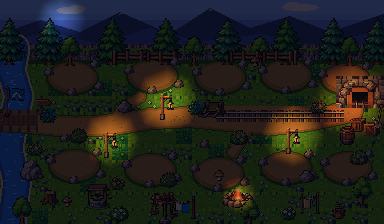
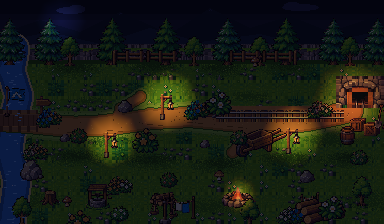
v1.3 PATCH_V13 §3 1~6: 부지 장면 낮/해질녘/밤 · 터 9곳 마이그레이션 · 공사터 · 그림자 · 심볼 간판 · 앞 수풀

diff --git a/src/main.js b/src/main.js
@@ -26,7 +26,7 @@ const ORE_COLOR = { C: 0xb87a4a, s: 0x7c7a92, g: 0xb8862a, j: 0x8a4ab0, c: 0x2fa
 import { newSeed } from './rng.js';
 
 TextureSource.defaultOptions.scaleMode = 'nearest';
-const VERSION = 'v1.2.7';
+const VERSION = 'v1.3';
 
 // ---------------------------------------------------------------- 저장 (명세2 §12: 로컬 자동 저장 5초마다 + 닫을 때)
 const S = loadSave();
@@ -109,7 +109,7 @@ const DECO_ANIM = new Set(['deco_fire', 'deco_flag']);
 const GPT_STEPS = [1, 3, 5];
 const GPT_SPRITES = [...Object.values(BLD_ART).flatMap((b) => GPT_STEPS.map((l) => `g_${b}_${l}`)), ...Object.values(DECO_ART).map((d) => `g_${d}`)];
 const YARD_SPRITES = [...Object.values(BLD_ART).flatMap((b) => GPT_STEPS.map((l) => `g64_${b}_${l}`)), ...Object.values(DECO_ART).map((d) => `g64_${d}`)];   // 부지 장면 1× (64×64 · scripts/buildings64.sh)
-const SPRITES = [...GPT_SPRITES, ...YARD_SPRITES, 'yd_bush_white', 'yd_bush_pink', 'yd_bush_orange', ...Object.values(BLD_ART).flatMap((b) => [1, 3, 5].map((l) => `${b}_${l}`)), ...Object.values(DECO_ART).filter((d) => !DECO_ANIM.has(d)), 'dirt_1', 'dirt_2', 'dirt_3', 'rock', 'hard_rock', 'ore_copper', 'ore_gold', 'ore_silver', 'gem',
+const SPRITES = [...GPT_SPRITES, ...YARD_SPRITES, 'lot_site_a', 'lot_site_b', 'lot_site_locked', 'lot_site_locked_b', 'yard_front', 'forest_fill', ...['pick', 'anvil', 'gear', 'bed', 'crate', 'gem', 'mug', 'cart', 'bag', 'flask'].map((k) => `sign_${k}`), ...Object.values(BLD_ART).flatMap((b) => [1, 3, 5].map((l) => `${b}_${l}`)), ...Object.values(DECO_ART).filter((d) => !DECO_ANIM.has(d)), 'dirt_1', 'dirt_2', 'dirt_3', 'rock', 'hard_rock', 'ore_copper', 'ore_gold', 'ore_silver', 'gem',
   'ancient', 'pocket_water', 'pocket_gas', 'relic_chest', 'cave', 'ladder', 'mark_x', 'ore_bits', 'star',
   'tunnel', 'tunnel_beam', 'rail', 'side_far', 'side_mid', 'side_fg',
   'sky_far', 'deep_far', 'deep_mid', 'deep_fg', 'bubble_dig', 'bubble_walk', 'bubble_rest',
@@ -121,7 +121,7 @@ const ANIMS = ['ore_glow', 'gold_shimmer', 'lantern', 'red_idle', 'red_walk', 'r
   'blonde_idle', 'blonde_walk', 'mole_sniff', 'cart_roll', 'cart_roll_empty', 'cart_roll_glow', 'slime', 'deco_fire', 'deco_flag', 'ui_hand', 'office_fire', 'yard_ripple', 'yard_fire', ...FX];
 const urls = [
   ...SPRITES.map((n) => A(`sprites/${n}.png`)), ...NORMALS.map((n) => A(`sprites/${n}_n.png`)),
-  ...ANIMS.flatMap((n) => [A(`anims/${n}.png`), A(`anims/${n}.json`)]), A('scenes/surface.png'), A('scenes/office_night.png'), A('scenes/office_day.png'), A('scenes/yard_day.png'), A('scenes/yard_night.png'),
+  ...ANIMS.flatMap((n) => [A(`anims/${n}.png`), A(`anims/${n}.json`)]), A('scenes/surface.png'), A('scenes/office_night.png'), A('scenes/office_day.png'), A('scenes/yard_day.png'), A('scenes/yard_dusk.png'), A('scenes/yard_night.png'),
 ];
 const [loaded] = await Promise.all([Assets.load(urls), loadUI(BASE)]);
 const tex = (n) => loaded[A(`sprites/${n}.png`)];
@@ -1465,6 +1465,11 @@ function onSpot(i) {
 }
 function afterBuild(msg) { refreshCompany(); sfx(/Lv/.test(msg) ? 'upgrade' : 'build'); toast(msg); bumpCounter('coin'); save(); buildUI(); cloudSoon(); }
 const isNight = () => { const hr = (S.tick / TICK_PER_DAY) * 24; return hr < 6 || hr >= 19; };
+/** 부지 장면 시간대 (PATCH_V13 §3-1): 06–16 낮 · 16–20 해질녘 · 20–06 밤 */
+const yardPhase = () => { const hr = (S.tick / TICK_PER_DAY) * 24; return hr >= 6 && hr < 16 ? 'day' : hr >= 16 && hr < 20 ? 'dusk' : 'night'; };
+const YARD_SHADE = { day: 0xffffff, dusk: 0xffe0c8, night: 0xd8d8f0 };   // 목표 합성(docs/ref/yard_v3_*)처럼 건물 색은 거의 그대로
+/** 간판 판자 (§3-5): 건물 → 심볼 */
+const SIGN_OF = { office: 'bag', lodge: 'bed', smelter: 'anvil', warehouse: 'crate', lanternShop: 'pick', cartShed: 'cart', moleHouse: 'gem', pumpRoom: 'flask', turretShop: 'gear' };
 
 /** 회사 화면 (V12 §4): 부지 장면(세로 3× · 가로·PC 2~3×, 끌어서 봄) + 아래 아이콘 격자. 건물·빈 터를 톡하면 카드 1장 */
 function makeCompany(x, y, w, h) {
@@ -1548,7 +1553,7 @@ function polyAt(p, d) {
 /** 부지 장면 (PATCH_V10 §2~4): art/yard/yard.px.js 낮·밤 그림 1장 위에 건물(빈 터) · 장식(소품 자리) · 길 따라 걷는 광부 · 레일 광차 · 두더지
  *  배율은 정수만 (화면 폭·높이에 들어가는 가장 큰 정수, 최소 1 — 남는 곳은 어두운 테두리, 넘치면 가운데 기준으로 잘림) */
 function makeSite(sw, sh) {
-  const c = new Container(), night = isNight(), SW = YARD.scene.w, SH = YARD.scene.h;
+  const c = new Container(), phase = yardPhase(), night = phase === 'night', dusk = phase === 'dusk', SW = YARD.scene.w, SH = YARD.scene.h;
   const k = yardScale();                                    // 기기 px 배율 (정수)
   const view = new Container(); c.addChild(view);
   const mask = new Graphics().rect(0, 0, sw, sh).fill(0xffffff); c.addChild(mask); view.mask = mask;
@@ -1572,19 +1577,12 @@ function makeSite(sw, sh) {
     const end = () => { d0 = null; setTimeout(() => { siteDragged = false; }, 0); };
     c.on('pointerup', end); c.on('pointerupoutside', end);
   }
-  const bg = new Sprite(yardTex(night ? 'yard_night' : 'yard_day')); sc.addChild(bg);
+  const bg = new Sprite(yardTex(`yard_${phase}`)); sc.addChild(bg);
   bg.eventMode = 'static'; bg.on('pointertap', () => { if (siteDragged) return; if (upCard && !placing) { upCard = null; buildUI(); } });
-  const ripple = new Sprite(F.yard_ripple[0]); ripple.tint = night ? 0x9090c8 : 0xffffff; sc.addChild(ripple);                 // yard.px.js _ripple 자리 (0,0)
+  const ripple = new Sprite(F.yard_ripple[0]); ripple.tint = night ? 0x9090c8 : dusk ? 0xe0b8a0 : 0xffffff; sc.addChild(ripple);                 // yard.px.js _ripple 자리 (0,0)
   const fireBg = new Sprite(F.yard_fire[0]); fireBg.position.set(230, 184); sc.addChild(fireBg);                                 // _fire 자리 (그림 속 모닥불)
   const open = new Set(openLots(S).map((l) => l.id)), pl = placed(S);
-  const shade = night ? 0xb8b8e0 : 0xffffff;
-  // 잠긴 터: 덤불로 덮음 (사무소 Lv마다 하나씩 걷힘)
-  for (const l of YARD.lots) if (!open.has(l.id)) {
-    ['yd_bush_white', 'yd_bush_orange', 'yd_bush_pink', 'yd_bush_white'].forEach((n, i) => {
-      const b = new Sprite(tex(n)); if (!b.texture) return; b.anchor.set(0.5, 1); b.tint = shade;
-      b.position.set(Math.round(l.x + 6 + (i * (l.w - 12)) / 3), Math.round(l.y + l.h - (i % 2 ? 4 : 0))); sc.addChild(b);
-    });
-  }
+  const shade = YARD_SHADE[phase];
   // 어울림 잇는 선
   const anchorOf = (p) => { if (p.deco) { const [dx, dy] = YARD.decoSpots[p.spot]; return [dx + 8, dy + 10]; } const l = lotOf(p.lot); return [l.x + l.w / 2, l.y + l.h - 4]; };
   const links = new Graphics();
@@ -1607,18 +1605,26 @@ function makeSite(sw, sh) {
     if (p.deco) { const [dx, dy] = YARD.decoSpots[p.spot]; things.push({ p, y: dy + 16, x: dx + 8 }); }
     else { const l = lotOf(p.lot); things.push({ p, y: l.y + l.h, x: l.x + l.w / 2, l }); }
   }
+  for (const l of YARD.lots) if (!lotUser(S, l.id)) things.push({ site: true, l, y: l.y + l.h });   // §3-3 빈 터 = 공사 예정지 (잠긴 터는 잡초 터)
   things.sort((a, b) => a.y - b.y);
   const glows = new Container(), animated = [], smoke = [];
   const glow = (x, y, r, color, a) => { const g = new Sprite(glowTex()); g.anchor.set(0.5); g.width = g.height = r * 2; g.position.set(x, y); g.tint = color; g.alpha = a; g.blendMode = 'add'; glows.addChild(g); };
   for (const th of things) {
+    if (th.site) {                                               // 공사터 a/b · 잠긴 터 — (lot.x-4, lot.y-20), 짓는 순간 사라짐
+      const l = th.l, n = open.has(l.id) ? (l.id % 2 ? 'lot_site_b' : 'lot_site_a') : (l.id % 2 ? 'lot_site_locked_b' : 'lot_site_locked');
+      const sp = new Sprite(tex(n)); sp.position.set(l.x + YARD.site.dx, l.y + YARD.site.dy); sp.tint = shade; sc.addChild(sp);
+      continue;
+    }
     const { p } = th, sel = (upCard?.kind === 'bld' || upCard?.kind === 'deco') && upCard.key === p.kind;
     if (!p.deco) {
-      const l = th.l;
+      const l = th.l, cx = Math.round(l.x + l.w / 2);
       const by = l.y + Math.round(l.h / 2) + 4;                    // 바닥 = 터 가운데 (형철 ③: 64×64 원본 1×, 축소 없음)
-      sc.addChild(new Graphics().ellipse(l.x + l.w / 2, by - 2, 28, 5).fill({ color: 0x1a1220, alpha: 0.35 }));   // 그림자
-      const art = yardArt(p.kind, lvOf(S, p.kind)); art.position.set(Math.round(l.x + l.w / 2), by); art.tint = shade; sc.addChild(art);
+      sc.addChild(new Graphics().ellipse(cx, by - 3, 34, 6).fill({ color: 0x1a1220, alpha: 0.35 }));   // §3-4 그림자 68×12
+      const art = yardArt(p.kind, lvOf(S, p.kind)); art.position.set(cx, by); art.tint = shade; sc.addChild(art);
+      const sg = SIGN_OF[p.kind] && tex(`sign_${SIGN_OF[p.kind]}`);   // §3-5 간판 판자: 건물 그림의 글자 간판을 덮음
+      if (sg) { const s1 = new Sprite(sg); s1.position.set(cx + YARD.signAt.dx, by + YARD.signAt.dy); s1.tint = shade; sc.addChild(s1); }
       if (art.anim) animated.push(art);
-      if (night) for (const [fx, fy] of [[0.35, 0.62], [0.65, 0.62]]) glow(l.x + l.w / 2 + (fx - 0.5) * art.width, by - art.height * (1 - fy), 9, 0xffd58a, 0.6);   // 창문 빛
+      if (night || dusk) for (const [fx, fy] of [[0.35, 0.62], [0.65, 0.62]]) glow(l.x + l.w / 2 + (fx - 0.5) * art.width, by - art.height * (1 - fy), 9, 0xffd58a, 0.6);   // 창문 빛
       if (p.kind === 'smelter') smoke.push([l.x + l.w / 2 + 6, by - art.height + 2]);
       if (sel) sc.addChild(new Graphics().roundRect(l.x + l.w / 2 - art.width / 2 - 2, by - art.height - 2, art.width + 4, art.height + 4, 4).stroke({ width: 1, color: 0xf5cf6a }));
     } else {
@@ -1629,9 +1635,8 @@ function makeSite(sw, sh) {
       if (sel) sc.addChild(new Graphics().circle(dx + 8, dy + 8, 11).stroke({ width: 1, color: 0xf5cf6a }));
     }
   }
-  if (night) glow(YARD.campfire[0], YARD.campfire[1] - 6, 26, 0xffb27a, 0.5);
-  const lampGlows = night ? YARD.lamps.map(([lx, ly], i) => { glow(lx, ly, 10, 0xffd58a, 0.5); const g = glows.children[glows.children.length - 1]; g.seed = i * 1.7; return g; }) : [];
-  sc.addChild(glows);
+  if (night || dusk) glow(YARD.campfire[0], YARD.campfire[1] - 6, 26, 0xffb27a, night ? 0.5 : 0.3);
+  const lampGlows = night || dusk ? YARD.lamps.map(([lx, ly], i) => { glow(lx, ly, 10, 0xffd58a, 0.5); const g = glows.children[glows.children.length - 1]; g.seed = i * 1.7; return g; }) : [];
   // 탭 자리 (그림 위 투명 판)
   for (const l of YARD.lots) { const hit = new Container(); hit.eventMode = 'static'; hit.cursor = 'pointer'; hit.hitArea = new Rectangle(l.x - 8, l.y - 40, l.w + 16, l.h + 42); hit.on('pointertap', () => onLot(l.id)); sc.addChild(hit); }
   YARD.decoSpots.forEach(([dx, dy], i) => { const hit = new Container(); hit.eventMode = 'static'; hit.cursor = 'pointer'; hit.hitArea = new Rectangle(dx - 2, dy - 4, 20, 22); hit.on('pointertap', () => onSpot(i)); sc.addChild(hit); });
@@ -1649,10 +1654,12 @@ function makeSite(sw, sh) {
   const cartS = new Sprite(F.cart_roll_empty[0]); cartS.anchor.set(0.5, 1); cartS.scale.set(0.5); cartS.tint = shade; chars.addChild(cartS);
   const rail = YARD.rails; let cx = rail.x0 + 20, cdir = 1, cwait = 0;
   const puffs = new Graphics(); sc.addChild(puffs);
+  { const fr = new Sprite(tex('yard_front')); fr.tint = shade; sc.addChild(fr); }   // §3-6 앞 수풀 — 건물·캐릭터 위
+  sc.addChild(glows);
   let tt = 0;
   ui.coTick = (dt) => {
     tt += dt; drawMarks(tt);
-    if (isNight() !== night) { ui.coTick = null; setTimeout(buildUI, 0); return; }      // 낮 ↔ 밤 바뀌면 장면 다시
+    if (yardPhase() !== phase) { ui.coTick = null; setTimeout(buildUI, 0); return; }      // 낮 → 해질녘 → 밤 바뀌면 장면 다시
     if (!ripple.destroyed) { ripple.texture = F.yard_ripple[Math.floor(tt * 3) % F.yard_ripple.length]; fireBg.texture = F.yard_fire[Math.floor(tt * 8) % F.yard_fire.length]; }
     for (const g of lampGlows) { const f = 0.55 * Math.sin(tt * 6.3 + g.seed) + 0.3 * Math.sin(tt * 18.8 + g.seed * 2); g.alpha = 0.45 + 0.12 * f; g.width = g.height = 20 * (1 + 0.06 * f); }
     for (const wk of walkers) {
@@ -4083,7 +4090,7 @@ if (bootIdle?.midRound) toast(`라운드 이어 하기 — ${S.round.card.name}`
 
 window.__kod = {
   get S() { return S; }, openReport, openNews, openMailbox, openInbox, openSound, checkReplies, get adminOn() { return adminOn; }, set adminOn(v) { adminOn = v; }, app, step(n = 60) { for (let i = 0; i < n; i++) app.ticker.update(app.ticker.lastTime + 1000 / 60); }, get W() { return W; }, get L() { return L; }, get ui() { return ui; }, AU, cam, lantern, actors, crew, fx, bigVein, tilesA, wA, lights,
-  startRound, todayCards, settleOffline, get welcome() { return welcome; }, introNext, showIntro, get introView() { return introView; }, dialogNext, openManual(key = MANUAL[0].key) { manualView = { key }; buildUI(); }, get tut() { return S.tutorial; }, startTutorialRound, openCompany, closeCompany, closeWelcome, movePlacing(kind) { placing = { kind, move: true, deco: !!B.company.decos[kind] }; buildUI(); }, refreshCompany, coAction, onLot, onSpot, get yardPan() { return yardPan; }, get held() { return held.length; }, notify, openRank, openLoginForm, pushNow, learnTalent, openTalents, get market() { return market; }, smeltOne, get sellMode() { return sellMode; }, set sellMode(v) { sellMode = v; }, get CF() { return CF; }, away(sec) { S.idle.lastSeen = Date.now() - sec * 1000; return settleOffline(); }, startDig, get errLog() { return errLog; }, openStorage, upgradeEquip, openGear, get upCard() { return upCard; }, set upCard(v) { upCard = v; }, vibroAt, xrayAt, armTool, get toolArmed() { return toolArmed; }, openShaft, turnShaft, collapse, get shafts() { return S.round?.shafts; }, get shaftBtns() { return shaftBtns; }, get piles() { return piles; }, B, refreshAround, get cart() { return cart; }, carts, endRound, askRetreat, nextAuction, pickCard, playerRaise, reset() { saving = false; resetSave(); location.reload(); },
+  startRound, todayCards, settleOffline, get welcome() { return welcome; }, introNext, showIntro, get introView() { return introView; }, dialogNext, openManual(key = MANUAL[0].key) { manualView = { key }; buildUI(); }, get tut() { return S.tutorial; }, startTutorialRound, openCompany, closeCompany, closeWelcome, movePlacing(kind) { placing = { kind, move: true, deco: !!B.company.decos[kind] }; buildUI(); }, refreshCompany, coAction, onLot, onSpot, get yardPan() { return yardPan; }, get held() { return held.length; }, notify, openRank, openLoginForm, pushNow, learnTalent, openTalents, get market() { return market; }, smeltOne, get sellMode() { return sellMode; }, set sellMode(v) { sellMode = v; }, get CF() { return CF; }, away(sec) { S.idle.lastSeen = Date.now() - sec * 1000; return settleOffline(); }, startDig, set yardHour(h) { S.tick = (h / 24) * TICK_PER_DAY; }, get errLog() { return errLog; }, openStorage, upgradeEquip, openGear, get upCard() { return upCard; }, set upCard(v) { upCard = v; }, vibroAt, xrayAt, armTool, get toolArmed() { return toolArmed; }, openShaft, turnShaft, collapse, get shafts() { return S.round?.shafts; }, get shaftBtns() { return shaftBtns; }, get piles() { return piles; }, B, refreshAround, get cart() { return cart; }, carts, endRound, askRetreat, nextAuction, pickCard, playerRaise, reset() { saving = false; resetSave(); location.reload(); },
   async shot(name, frames = 240) {
     let t = performance.now();
     const url = await new Promise((r) => { for (let i = 0; i < frames; i++) app.ticker.update((t += 33)); shotWaiter = r; app.ticker.update((t += 33)); });

diff --git a/src/patchnotes.js b/src/patchnotes.js
@@ -1,5 +1,6 @@
 // 채굴 자체 패치노트 (새 소식 → 패치노트). 새 버전은 맨 위에.
 export const PATCH_NOTES = [
+  { v: 'v1.3', d: '2026-10-24', items: ['회사 부지가 새 그림으로: 낮 · 해질녘 · 밤 세 장면', '빈 터는 공사 예정지, 건물엔 그림자와 심볼 간판', '앞 수풀이 건물 위로 겹쳐서 마을이 꽉 차 보여요'] },
   { v: 'v1.2.7', d: '2026-10-24', items: ['드물게 화면이 멈추던 것: 문제가 생겨도 게임이 멈추지 않고 계속돼요', '그때 생긴 오류는 [제보]를 보낼 때 함께 가요 (고치는 데 써요)'] },
   { v: 'v1.2.6', d: '2026-10-24', items: ['📦 위 HUD의 창고 숫자를 누르면 창고 현황: 광석·괴 몇 개, 개당 시세, 지금 다 팔면 얼마', '판매 탭 보유 수가 「28개」로 보여요'] },
   { v: 'v1.2.5', d: '2026-10-24', items: ['[시추 시작] 버튼 글자가 잘리던 것 고침 (버튼이 글자 폭에 맞춰요)', '경매 카드 이름 · 광부 성격 줄도 안 잘리게'] },

diff --git a/src/company.js b/src/company.js
@@ -15,6 +15,8 @@ export function ensureCompany(S) {
   const co = S.company;
   co.coreLv ??= 1; co.buildings ??= {}; co.decos ??= []; co.harmoniesFound ??= [];
   ensureUpgrades(S);
+  // PATCH_V13 §3-2: 터 10곳 → 9곳 (입구와 겹치던 옛 4번 삭제, id 다시 매김) — 옛 5–9 → 4–8, 옛 4에 지은 건물은 빈 터로
+  if ((co.lotsV ?? 0) < 3) { for (const b of Object.values(co.buildings)) if (b && b.lot != null) b.lot = b.lot === 4 ? null : b.lot > 4 ? b.lot - 1 : b.lot; co.lotsV = 3; }
   // 격자 슬롯(x,y) → 빈 터(lot) · 소품 자리(spot)로 옮김 (PATCH_V10 §2)
   for (const b of Object.values(co.buildings)) if (b && b.lot == null) { delete b.x; delete b.y; }
   co.buildings.office ??= {}; co.buildings.office.lot ??= YARD.lots.find((l) => l.default === 'office')?.id ?? 0;

diff --git a/README.md b/README.md
@@ -36,6 +36,9 @@
 
 변환 손실 점검(원본 ↔ png2pxl ×4): `docs/preview/convert_check_*.png` (`py scripts/convert_check.py`). 길드 대표는 32×40에서 뭉개져 64×80으로 다시 변환.
 
+## v1.3 (PATCH_V13 — 부지 퀄리티)
+1~6. 장면 3종(06–16 낮 · 16–20 해질녘 · 20–06 밤, `yardPhase`) · 터 9곳(옛 4번 삭제, 저장된 lot 5–9 → 4–8, 옛 4의 건물은 빈 터로 — `company.lotsV=3`) · 빈 터 = `lot_site_a/b`, 잠긴 터 = `lot_site_locked(_b)` at (lot.x-4, lot.y-20) · 건물 그림자 68×12 α.35 at (cx, by-3) · 간판 판자 `sign_<key>` at (cx-15, by-38) · `yard_front` 앞 수풀(건물·캐릭터 위, 글로우 아래). 해질녘·밤 색조는 목표 합성처럼 건물 색을 거의 살림. 옛 덤불 덮개 코드 삭제. 스샷: docs/screens/v13_day·dusk·night.png
+
 ## v1.2.7
 - 매 프레임 루프를 부분별로 감쌈(safe): 한 곳이 오류를 내도 나머지·그리기는 계속 (PixiJS는 리스너가 던지면 다음 프레임을 안 잡아 화면이 멈춤). Pixi render·window error·promise도 잡음.
 - 오류는 최근 5건을 localStorage `kod.errors`에 남기고, [제보]를 보낼 때 「[오류 버전 상태] 메시지 @ 위치」로 함께 보냄(보내면 비움). 문제가 생기면 모모 토스트 한 번(30초에 한 번).
